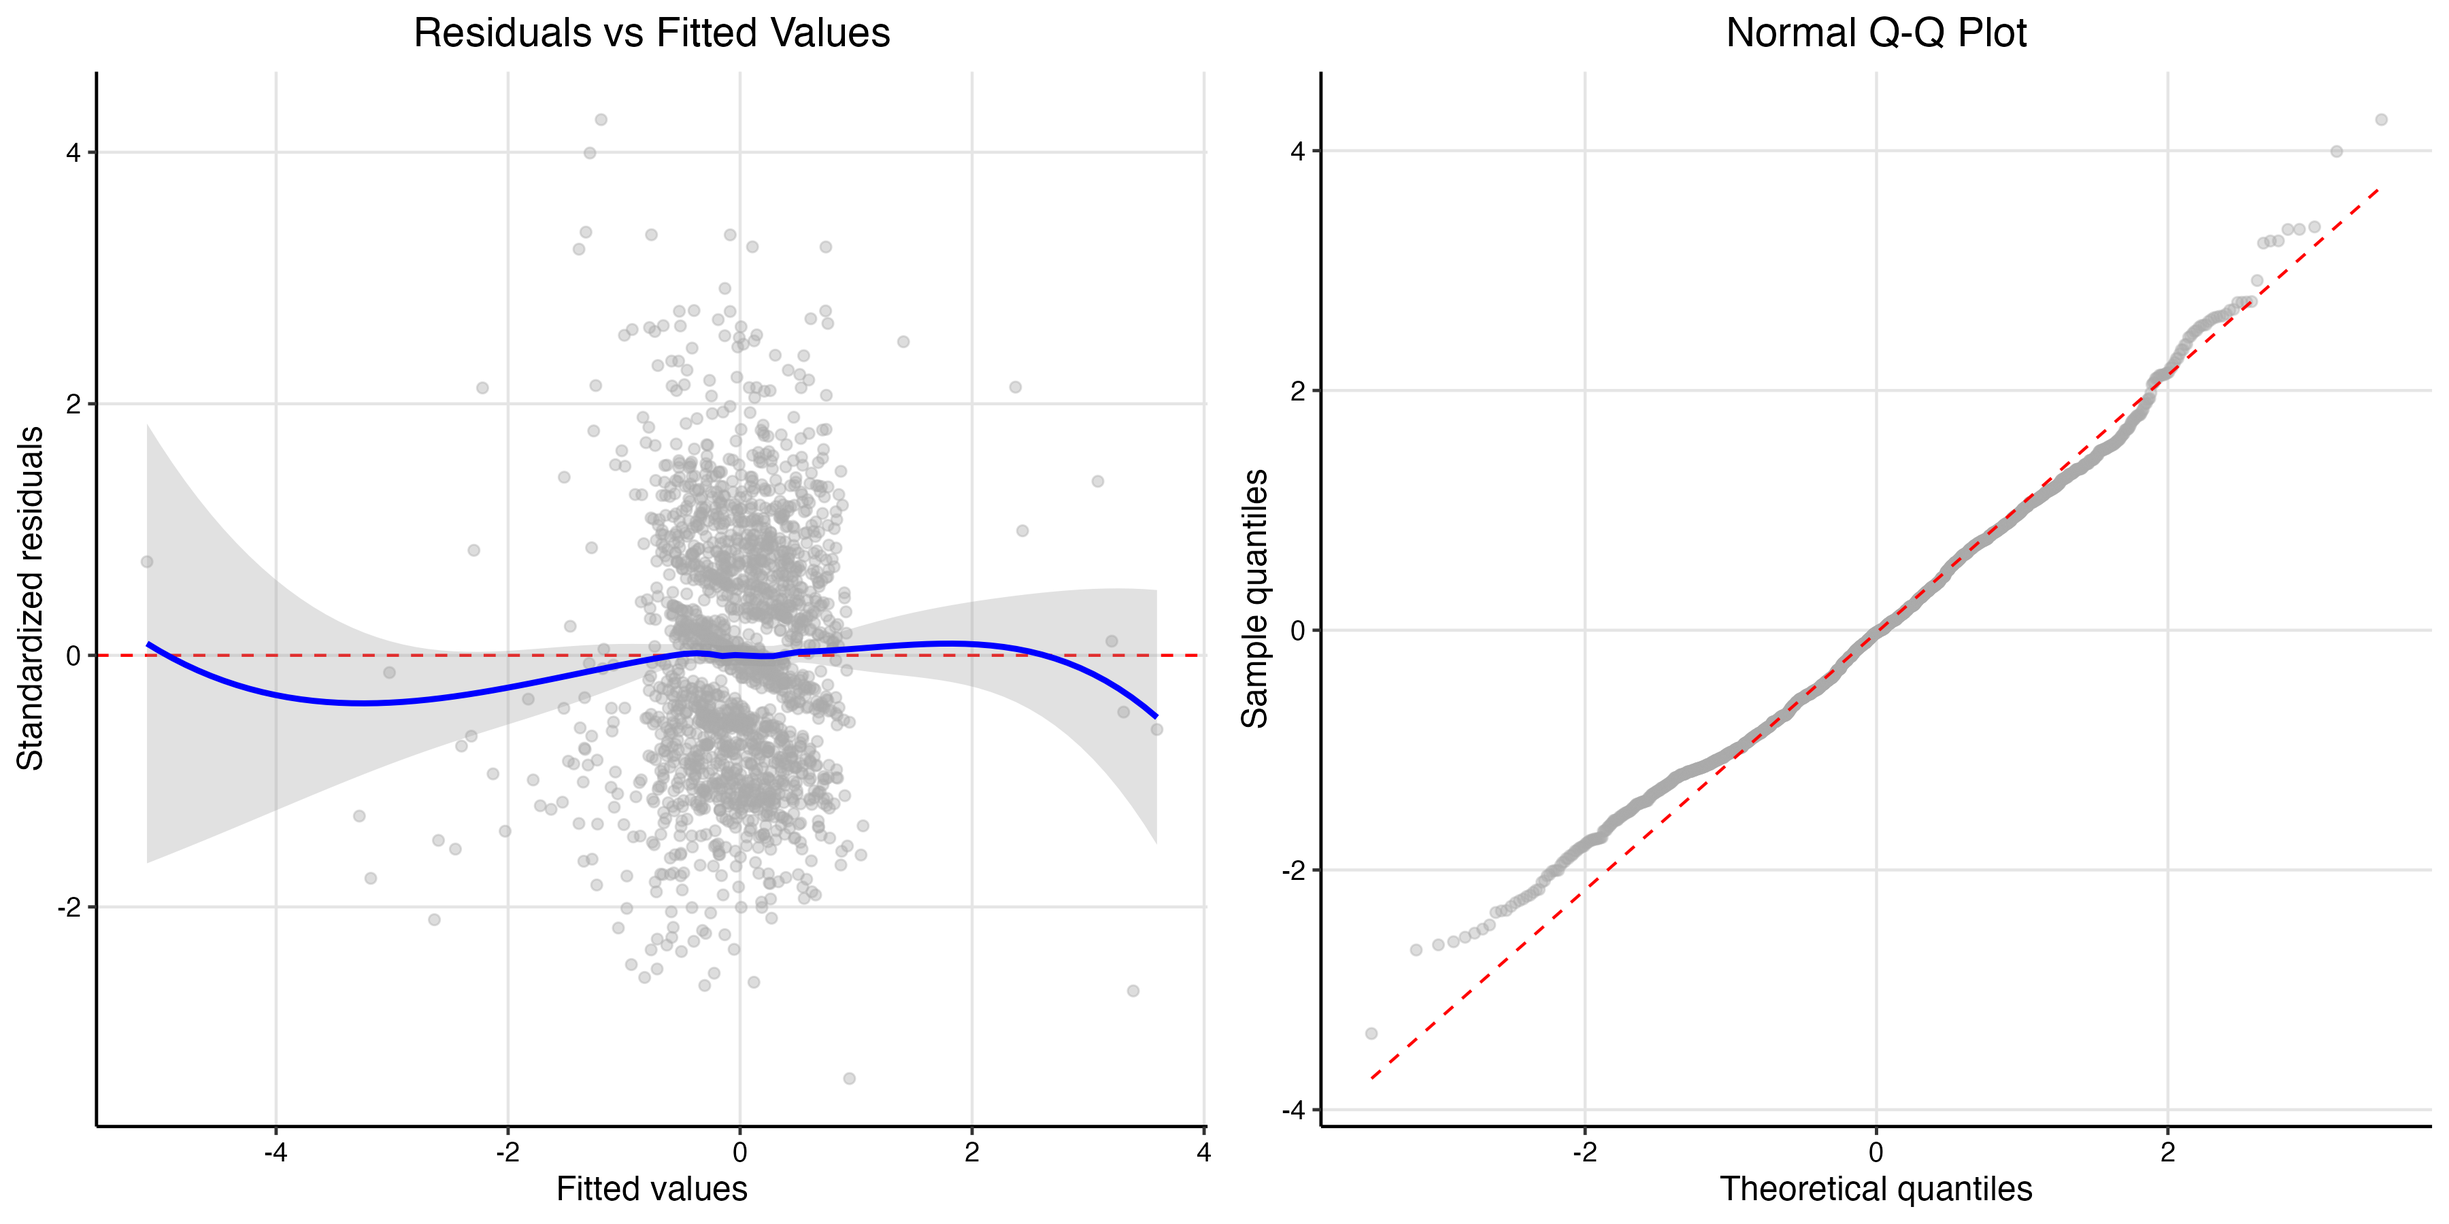
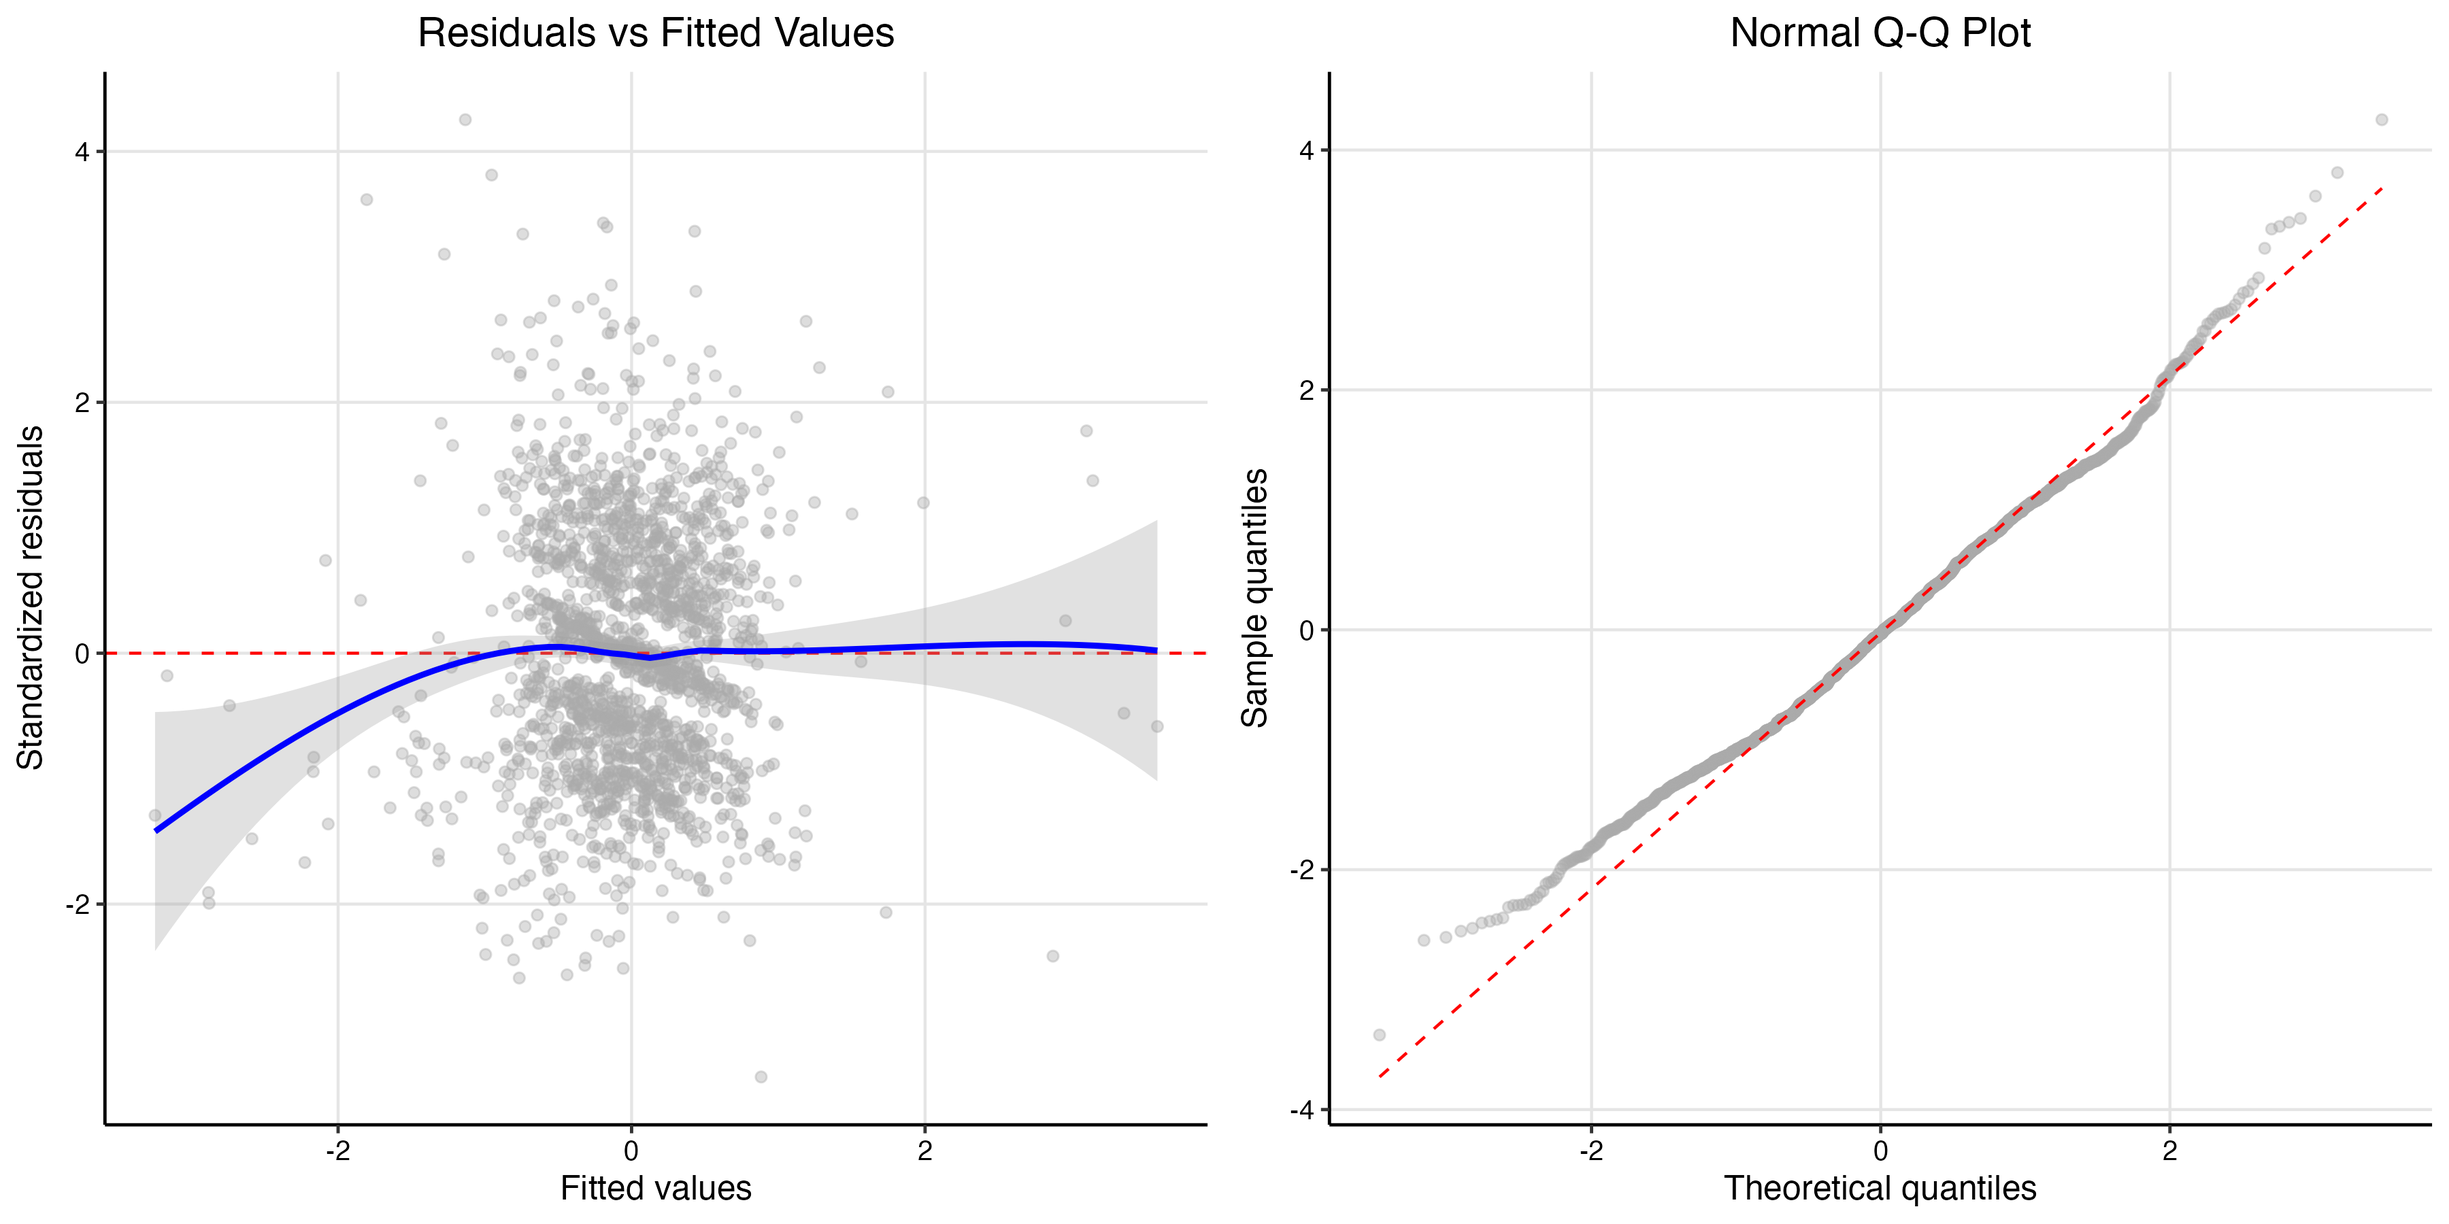
VSFB results: update 30-min analysis to ti() best model (M50); switch tables to exported \input; replace 2x2 partials with 1x3 (no sun); remove M24 references/figure; clarify wind as conditional (wind × sun), not threshold; refresh diagnostics caption; update figures/tables

diff --git a/chapters/vsfb/results.tex b/chapters/vsfb/results.tex
@@ -14,81 +14,44 @@ The comprehensive temporal coverage, with observations at 30-minute intervals ca
 
 \subsection{Summary of Data and Model Selection}
 
-Environmental factors, but not wind, drove monarch abundance changes in 1,894 paired observations from 115 monitoring periods at two overwintering sites during the 2023-2024 season. Testing of 48 candidate models identified M23 as the best-fit model.
+Environmental factors drove monarch abundance changes in 1,894 paired observations from 115 monitoring periods at two overwintering sites during the 2023–2024 season. After expanding the candidate set to include tensor–product interactions (ti), testing of 52 candidate models identified model M50 as the best‑fit.
 
-Model M23 included smooth terms for previous butterfly count, temperature, butterflies in direct sun, and time since sunrise, achieving an AIC value of 8081.848 (Table~\ref{tab:model_selection}). M23 captured all the model weight across 48 candidates (AIC = 8081.8), with the next best model ΔAIC = 4.8. Wind variables appeared in only one of the top five models (M24), which included maximum wind speed but performed substantially worse than M23 (ΔAIC = 6.2), with the wind effect showing weak evidence of an association (p = 0.218).
+Model M50 included smooth terms for previous butterfly count, temperature, and time since sunrise, plus a tensor–product interaction between maximum wind speed and butterflies in direct sun. The AIC comparison favored M50 (AIC ≈ 8078.0) over the next best models (ΔAIC ≥ 3.8). We report full model selection details via the exported table.
 
 \begin{table}[htbp]
 \centering
-\caption{Model selection results showing the top five candidate models from 48 tested, ranked by AIC. Model terms are shown with their respective AIC values, ΔAIC relative to the best model, and AIC weights calculated across all 48 models. Wind p-values are shown where applicable; NA indicates the model did not include wind variables.}
+\caption{Top five candidate models ranked by AIC for the 30‑minute analysis.}
 \label{tab:model_selection}
-\begin{tabular}{lllrrr}
-\hline
-Model & Terms & AIC & ΔAIC & Weight & Wind p \\
-\hline
-M23 & Previous butterfly count, Temperature, & 8081.8 & 0.0 & 1.000 & NA \\
-    & Butterflies in direct sun, Time since sunrise & & & & \\
-M22 & Previous butterfly count, Temperature (linear), & 8086.6 & 4.8 & <0.001 & NA \\
-    & Butterflies in direct sun, Time since sunrise & & & & \\
-M24 & Previous butterfly count, Maximum wind speed, & 8088.0 & 6.2 & <0.001 & 0.218 \\
-    & Temperature, Butterflies in direct sun, Time since sunrise & & & & \\
-M47 & Temperature, Butterflies in direct sun, & 8101.3 & 19.4 & <0.001 & NA \\
-    & Time since sunrise & & & & \\
-M17 & Previous butterfly count, Temperature, & 8105.9 & 24.0 & <0.001 & NA \\
-    & Butterflies in direct sun & & & & \\
-\hline
-\end{tabular}
+\input{supplemental/results/thesis_exports/tables/model_selection_table}
 \end{table}
 
 \subsection{Analysis of the Best-Fit Model}
 
-The best-fit model (M23) explained 5.7\% of variance in monarch abundance changes (adjusted R² = 0.057). The model formula was:
+The best‑fit model (M50) included three smooth main effects and one tensor–product interaction:
 
 \begin{equation}
-\text{Change in abundance} \sim s(\text{Previous butterfly count}) + s(\text{Temperature}) + s(\text{Butterflies in direct sun}) + s(\text{Time since sunrise})
+\text{Change in abundance} \sim s(\text{Previous butterfly count}) + s(\text{Temperature}) + s(\text{Time since sunrise}) + ti(\text{Maximum wind speed},\, \text{Butterflies in direct sun}).
 \end{equation}
 
-where $s()$ denotes smooth terms. All four smooth terms showed significant effects on monarch abundance changes.
+All three smooth main effects were significant, and the wind × sun interaction was strongly supported in the AIC comparison (Table~\ref{tab:model_selection}). Smooth‑term statistics for the best model are provided via the exported table.
 
 \begin{table}[htbp]
 \centering
-\caption{Summary of smooth terms in the best-fit model (M23). EDF represents effective degrees of freedom, indicating the complexity of each smooth relationship.}\label{tab:smooth_terms}
-\begin{tabular}{lrrrr}
-\hline
-Term & EDF & Ref.~df & F-value & p-value \\
-\hline
-Previous butterfly count & 2.62 & 2.62 & 12.02 & 8.26e-07 \\
-Temperature & 3.93 & 3.93 & 3.23 & 0.028 \\
-Butterflies in direct sun & 1.53 & 1.53 & 19.36 & 1.22e-05 \\
-Time since sunrise & 4.90 & 4.90 & 8.90 & <2e-16 \\
-\hline
-\end{tabular}
+\caption{Summary of smooth terms in the best‑fit model (M50). EDF represents effective degrees of freedom.}\label{tab:smooth_terms}
+\input{supplemental/results/thesis_exports/tables/smooth_terms_summary}
 \end{table}
 
-All four predictors in the best-fit model showed significant effects on monarch abundance changes (Figure~\ref{fig:partial_effects}). The previous butterfly count exhibited a significant non-linear negative relationship (EDF = 2.62, F = 12.02, p < 0.001), with increasingly negative changes as the previous count increased, indicating proportionally greater departures from larger aggregations. Butterflies in direct sun showed a strong negative effect on roost abundance (EDF = 1.53, F = 19.36, p < 0.001), with greater numbers in direct sun associated with larger decreases in total abundance.
-
-Time since sunrise revealed a pronounced diurnal pattern (EDF = 4.90, F = 8.90, p < 0.001), with monarchs departing clusters throughout the morning and reaching peak departures approximately 3.25 hours after sunrise. Cluster reformation began in the afternoon, with most butterflies returning around 8.25 hours after sunrise, capturing the characteristic daily rhythm of monarch activity at overwintering sites. Temperature exhibited a complex non-linear relationship (EDF = 3.93, F = 3.23, p = 0.028). Below the flight threshold (blue vertical band) of 12.7-16°C established by Masters et al. (1988), temperature had minimal effect on cluster abundance. Above this threshold, clusters reformed as temperatures increased up to 25°C, with peak reformation occurring around 21°C. Beyond 25°C, the pattern reversed, with each additional degree Celsius increasing departure rates from clusters.
+Partial effects for the three smooth main effects are shown in Figure~\ref{fig:partial_effects}. The previous butterfly count showed a non‑linear negative relationship consistent with proportionally greater departures from larger aggregations. Time since sunrise captured a diurnal pattern with morning departures and afternoon returns. Temperature displayed a non‑linear response with minimal effects below the 12.7–16°C flight threshold and reformation at moderate temperatures.
 
 \begin{figure}[htbp]
 \centering
-\includegraphics[width=\textwidth]{figures/results/combined_partial_effects_2x2_final.png}
-\caption{Partial effects of the four significant predictors on monarch abundance change in a 2x2 layout. The partial effect on monarch abundance as estimated from the single attribute being compared to abundance while assuming all other attribute values are held constant. Top row: butterflies in direct sun (left) and previous butterfly count (right). Bottom row: time since sunrise in minutes (left) and temperature in °C (right). Solid lines show the estimated smooth functions with 95\% confidence intervals (shaded regions). All effects are shown on the same scale for comparison.}\label{fig:partial_effects}
+\includegraphics[width=\textwidth]{figures/results/combined_partial_effects_1x3_final.png}
+\caption{Partial effects for the three smooth main effects in the best model: previous butterfly count (purple), time since sunrise (green), and temperature (mauve). Solid lines show estimated smooths with 95\% confidence intervals (shaded regions), on a shared y‑axis scale.}\label{fig:partial_effects}
 \end{figure}
 
 \subsection{Evaluation of the Disruptive Wind Hypothesis}
 
-Our analysis provided no support for the three hierarchical wind hypotheses:
-
-First, wind did not act as a disruptive force to overwintering monarchs. Among our 48 candidate models, wind appeared in only one of the top five models (M24), where it showed little evidence of an effect (p = 0.218) and resulted in substantially poorer model performance compared to the best model (ΔAIC = 6.2). The partial effect of maximum wind speed from this model remains flat with wide uncertainty across the observed range, reinforcing the lack of a coherent signal (Figure~\ref{fig:m24_wind_partial_effect}).
-
-\begin{figure}[htbp]
-\centering
-\includegraphics[width=0.65\textwidth]{figures/results/m24_wind_partial_effect.png}
-\caption{Partial effect of maximum wind speed on monarch abundance change from model M24. The flat relationship with wide confidence intervals demonstrates no clear effect of wind on butterfly departures. The red dashed line indicates the proposed 2~m/s disruptive threshold.}
-\label{fig:m24_wind_partial_effect}
-\end{figure}
-
-Second, we found no evidence for disruption above the proposed 2~m/s threshold. A sensitivity analysis using a specific threshold predictor ('minutes with wind speed > 2~m/s') confirmed this lack of a threshold effect, as models with this variable performed poorly and did not rank among the top candidates (Table~\ref{tab:threshold_model_selection}). Visually, the relationship between wind and monarch abundance change remained flat across the 2~m/s boundary (Figure~\ref{fig:wind_scatter}). With mean maximum wind speeds of 2.2~m/s (SD = 1.4~m/s), conditions that should have revealed threshold effects if present, no disruption occurred at or above this boundary.
+Our analysis did not support a simple disruptive wind effect or a fixed 2~m/s threshold at the 30‑minute scale. Instead, when wind was selected it entered as a smooth interaction with direct sun exposure (ti), indicating that any wind association with departures is conditional on solar exposure rather than monotonic or threshold‑based. A sensitivity analysis using ‘minutes above 2~m/s’ performed poorly and did not rank among top candidates (Table~\ref{tab:threshold_model_selection}). Visually, the relationship between wind and abundance change shows no disruption at the 2~m/s boundary (Figure~\ref{fig:wind_scatter}).
 
 \begin{table}[htbp]
 \centering
@@ -181,7 +144,7 @@ Model residuals showed distinct linear banding patterns consistent with the disc
 \begin{figure}[htbp]
 \centering
 \includegraphics[width=\textwidth]{figures/results/combined_diagnostics.png}
-\caption{Model diagnostics for M23. Left: Residuals versus fitted values showing banding that reflects the discrete counting method, with smoothed relationship shown in blue. Right: Normal Q-Q plot of model residuals showing reasonable normality with minor tail deviations.}\label{fig:diagnostics}
+\caption{Model diagnostics for the best model. Left: Residuals versus fitted values showing banding consistent with discrete counting; right: Normal Q-Q plot of residuals showing reasonable normality with minor tail deviations.}\label{fig:diagnostics}
 \end{figure}
 
 % To update figures, rerun the quarto doc masters-analysis/analysis/monarch_gam_analysis.qmd (separate repo) and copy the thesis-exports folder to this one.

diff --git a/supplemental/results/thesis_exports/tables/model_selection_table.tex b/supplemental/results/thesis_exports/tables/model_selection_table.tex
@@ -1,30 +1,16 @@
 \begin{table}
 
-\caption{Top 5 candidate models ranked by AIC for monarch butterfly abundance change analysis. All terms are smooth unless marked as (linear). Wind p-value shows significance of max_gust term when present in model.}
+\caption{\label{tab:export-model-selection-table}Top 5 candidate models ranked by AIC for monarch butterfly abundance change analysis. All terms are smooth unless marked as (linear). Wind p-value shows significance of max_gust term when present in model.}
 \centering
 \begin{tabular}[t]{llrrrrl}
 \toprule
-Model ID & Model Terms & AIC & ΔAIC & AIC Weight & df & Wind p-value\\
+Model ID & Model Terms & AIC & <U+0394>AIC & AIC Weight & df & Wind p-value\\
 \midrule
-M23 & • Previous butterfly count
-• Temperature
-• Butterflies in direct sun
-• Time since sunrise & 8081.848 & 0.000 & 0.8803 & 14 & NA\\
-M22 & • Previous butterfly count
-• Temperature (linear)
-• Butterflies in direct sun
-• Time since sunrise & 8086.644 & 4.796 & 0.0800 & 13 & NA\\
-M24 & • Previous butterfly count
-• Maximum wind speed
-• Temperature
-• Butterflies in direct sun
-• Time since sunrise & 8088.049 & 6.200 & 0.0397 & 16 & 0.218\\
-M47 & • Temperature
-• Butterflies in direct sun
-• Time since sunrise & 8101.296 & 19.448 & 0.0001 & 12 & NA\\
-M17 & • Previous butterfly count
-• Temperature
-• Butterflies in direct sun & 8105.876 & 24.028 & 0.0000 & 12 & NA\\
+M50 & \textbullet\ Previous butterfly count\\ \textbullet\ Temperature\\ \textbullet\ Time since sunrise\\ \textbullet\ ti(Maximum wind speed, Butterflies in direct sun) & 8078.029 & 0.000 & 0.8559 & 15 & 5.55e-05\\
+M23 & \textbullet\ Previous butterfly count\\ \textbullet\ Temperature\\ \textbullet\ Butterflies in direct sun\\ \textbullet\ Time since sunrise & 8081.848 & 3.820 & 0.1268 & 14 & NA\\
+M22 & \textbullet\ Previous butterfly count\\ \textbullet\ Temperature (linear)\\ \textbullet\ Butterflies in direct sun\\ \textbullet\ Time since sunrise & 8086.644 & 8.615 & 0.0115 & 13 & NA\\
+M24 & \textbullet\ Previous butterfly count\\ \textbullet\ Maximum wind speed\\ \textbullet\ Temperature\\ \textbullet\ Butterflies in direct sun\\ \textbullet\ Time since sunrise & 8088.049 & 10.020 & 0.0057 & 16 & 0.218\\
+M52 & \textbullet\ Temperature\\ \textbullet\ Time since sunrise\\ \textbullet\ ti(Maximum wind speed, Butterflies in direct sun) & 8096.722 & 18.693 & 0.0001 & 13 & 1.13e-05\\
 \bottomrule
 \end{tabular}
 \end{table}

diff --git a/supplemental/results/thesis_exports/tables/smooth_terms_summary.tex b/supplemental/results/thesis_exports/tables/smooth_terms_summary.tex
@@ -1,15 +1,15 @@
 \begin{table}
 
-\caption{Summary of smooth terms in the best-fit GAM model}
+\caption{\label{tab:export-smooth-terms-table}Summary of smooth terms in the best-fit GAM model}
 \centering
 \begin{tabular}[t]{llrrrl}
 \toprule
   & Smooth Term & EDF & Ref. df & F & p-value\\
 \midrule
-s(total\_butterflies\_t\_lag) & Previous butterfly count & 2.621 & 2.621 & 12.020 & 8.26e-07\\
-s(temperature\_avg) & Temperature & 3.930 & 3.930 & 3.230 & 0.0283\\
-s(butterflies\_direct\_sun\_t\_lag) & Butterflies in direct sun & 1.534 & 1.534 & 19.356 & 1.22e-05\\
-s(time\_within\_day\_t) & Time since sunrise & 4.898 & 4.898 & 8.901 & < 2e-16\\
+s(total\_butterflies\_t\_lag) & Previous butterfly count & 2.409 & 2.409 & 12.500 & 9.98e-07\\
+s(temperature\_avg) & Temperature & 3.674 & 3.674 & 3.193 & 0.0571\\
+s(time\_within\_day\_t) & Time since sunrise & 4.870 & 4.870 & 9.845 & < 2e-16\\
+ti(max\_gust,butterflies\_direct\_sun\_t\_lag) & Butterflies in direct sun & 7.348 & 7.348 & 4.666 & 5.55e-05\\
 \bottomrule
 \end{tabular}
 \end{table}

diff --git a/supplemental/results/thesis_exports/tables/data_summary.tex b/supplemental/results/thesis_exports/tables/data_summary.tex
@@ -1,6 +1,6 @@
 \begin{table}
 
-\caption{Summary statistics for the monarch butterfly analysis dataset}
+\caption{\label{tab:export-data-summary}Summary statistics for the monarch butterfly analysis dataset}
 \centering
 \begin{tabular}[t]{lr}
 \toprule
@@ -12,8 +12,8 @@ Deployment-day combinations & 115.0\\
 Mean butterfly count & 81.4\\
 SD butterfly count & 100.0\\
 \addlinespace
-Mean temperature (°C) & 14.6\\
-SD temperature (°C) & 3.8\\
+Mean temperature (<U+00B0>C) & 14.6\\
+SD temperature (<U+00B0>C) & 3.8\\
 Mean wind gust (m/s) & 2.2\\
 SD wind gust (m/s) & 1.4\\
 \bottomrule
